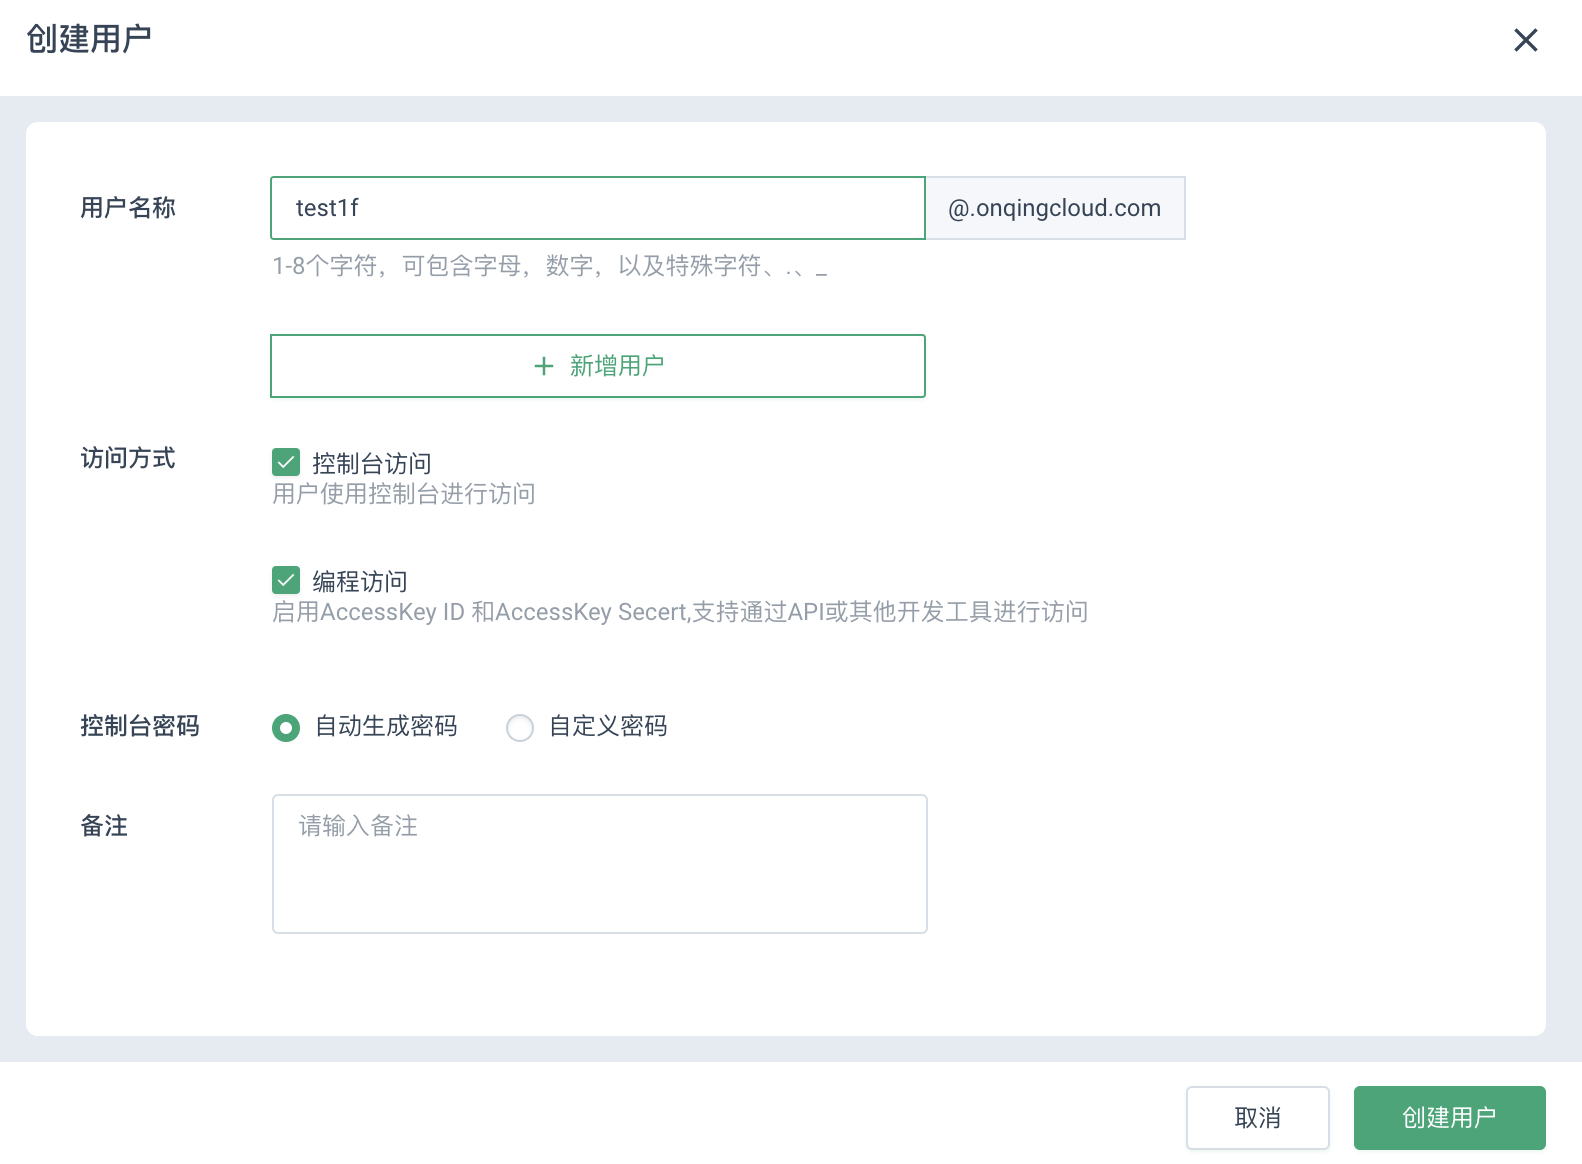
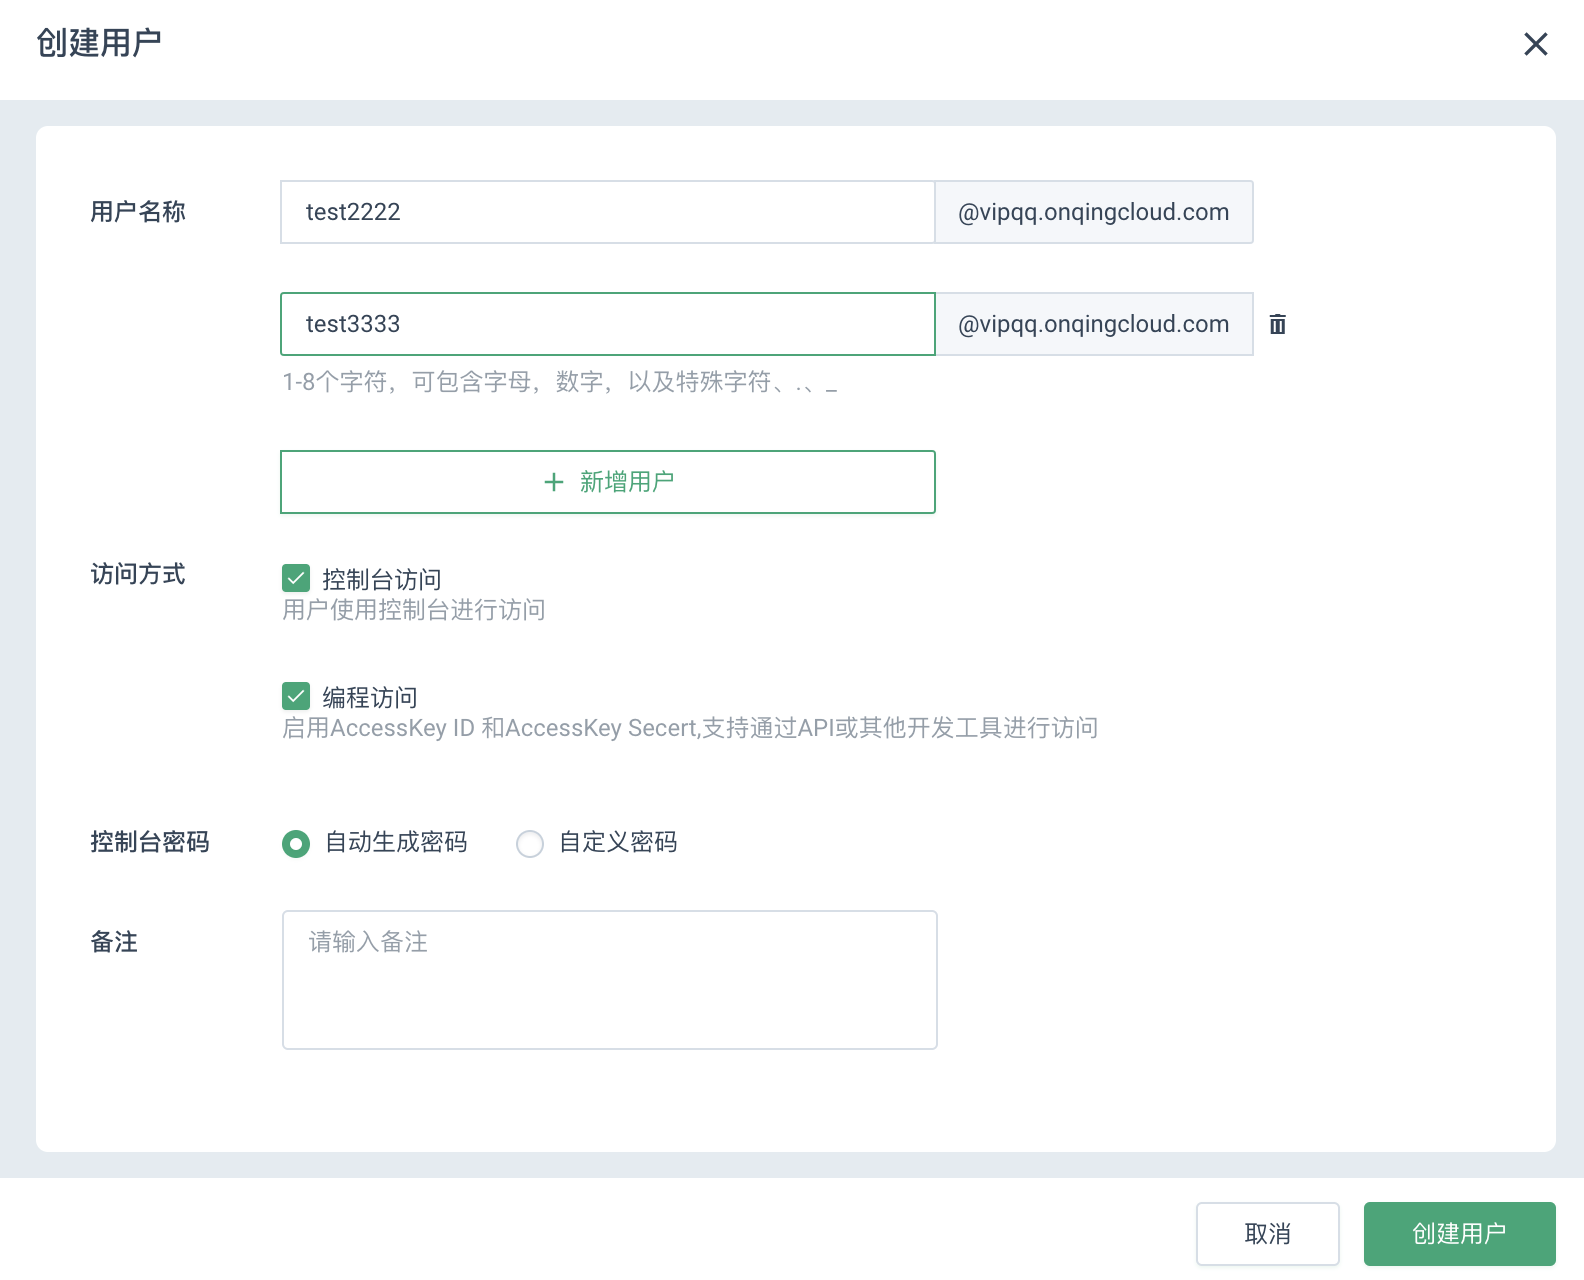
iam_1

diff --git a/content/authorization/iam/manual/user.md b/content/authorization/iam/manual/user.md
@@ -7,6 +7,24 @@ weight: 40
 
 您可以通过 IAM 用户设定访问方式。
 
+## 前提条件
+
+在登录 [QingCloud 管理控制台](https://console.qingcloud.com/login)的时候，您可以选择直接从QingCloud 控制台进入，也可以选择IAM 用户登录的方式进行登录。
+
+### 控制台登录：
+
+<img src="../../_images/console.png" style="zoom:22%;" />
+
+### IAM 用户登录：
+
+<img src="../../_images/console_iam.png" style="zoom:22%;" />
+
+>说明
+>
+>控制台用户可以通过控制台进入 访问鉴权管理 IAM 服务。
+>
+>IAM 用户则无法通过控制台进入访问鉴权管理 IAM 服务，登录后直接进入访问鉴权管理 IAM 服务。
+
 ## 创建用户
 
 1. 登录 [QingCloud 管理控制台](https://console.qingcloud.com/login)，选择**产品与服务** > **访问鉴权管理** > **用户**，进入域名列表页。
@@ -19,9 +37,25 @@ weight: 40
 
     <img src="../../_images/user2.png" alt="图片" style="zoom:30%;" />
 
+    >说明
+    >
+    >支持批量创建用户。
+
 4. 创建完成。
 
+    <img src="../../_images/user3_1.png" alt="图片" style="zoom:25%;" />
+
     <img src="../../_images/user3.png" alt="图片" style="zoom:25%;" />
+
+    >说明
+    >
+    >请及时保存信息并发送给相应用户，弹窗关闭后将无法再次获取密码信息，但是可以支持再次创建。
+    >
+    >创建成功后可以进行批量赋予权限。
+    >
+    >
+
+    ## 
 
 ## 编辑用户
 
@@ -149,7 +183,9 @@ weight: 40
 
    <img src="../../_images/user19.png" style="zoom:40%;" />
 > 说明：
->如果需要删除Access Key，则直接在该页面点击**删除**即可。
+> 如果需要删除Access Key，则直接在该页面点击**删除**即可。
 >
 > 如果需要禁用某一Access key，则在该页面直接点击**禁用**即可。
+>
+> 请及时保存或发送AccessKey信息至用户，弹窗关闭后将无法再次获取该信息，但您可以随时创建新的AccessKey。
 

diff --git a/content/compute/vm/faq/other_questions/vm_ping_ssh.md b/content/compute/vm/faq/other_questions/vm_ping_ssh.md
@@ -1,0 +1,18 @@
+---
+title: "主机绑定了公网 IP 之后，为什么我无法通过 IP SSH 登录，也不能 ping 通该 IP？ "
+date: 2020-01-30T00:38:25+09:00
+description: Test description
+draft: false
+enableToc: false
+weight: 40
+---
+
+为了加强位于基础网络 vxnet-0 中的主机的安全性， 青云在主机之前放置了一个防火墙（Security Group）。 初始状态下，每个防火墙都不包含任何规则，即，全部端口都是封闭的， 您需要建立规则以打开相应的端口。
+
+>注解
+>如果你的主机使用的是默认防火墙，那么 ping 和 ssh 的端口都是默认打开的，你无需再进行操作。
+
+例如您需要访问主机的22号端口，需要手动为主机的防火墙添加一条 接受 tcp 22 端口 的下行规则，然后再点击 更新规则 使其应用到主机。
+
+同理，如果你想开启 ping 功能， 需要在防火墙里头添加 接受 ICMP echo request 的下行规则。
+

diff --git a/content/compute/vm/faq/other_questions/vm_numbers.md b/content/compute/vm/faq/other_questions/vm_numbers.md
@@ -1,0 +1,11 @@
+---
+title: "如果我有多台主机需要访问外网，是不是每台主机都需要绑定一个公网 IP？ "
+date: 2020-01-30T00:38:25+09:00
+description: Test description
+draft: false
+enableToc: false
+weight: 50
+---
+
+当然不是这样。您可以将需要访问外网的主机加入到您的某个受管私有网络中， 再将该受管私有网络连接到您创建的路由器上， 然后再给路由器上绑定一个公网 IP。这样， 位于受管私有网络中的所有主机都可以连接互联网了，既节省钱，也节约 IP 地址。
+

diff --git a/content/compute/vm/faq/other_questions/vm_free_after_shutdown.md b/content/compute/vm/faq/other_questions/vm_free_after_shutdown.md
@@ -4,7 +4,7 @@ date: 2020-01-30T00:38:25+09:00
 description: Test description
 draft: false
 enableToc: false
-weight: 40
+weight: 20
 ---
 
 当云服务器关机后，只收取系统盘的费用，按照系统盘的占用空间收费，收费标准同硬盘，CPU / 内存则不再收费。

diff --git a/content/compute/vm/faq/other_questions/vm_outside.md b/content/compute/vm/faq/other_questions/vm_outside.md
@@ -1,0 +1,11 @@
+---
+title: "为什么我的主机不能访问外网？"
+date: 2020-01-30T00:38:25+09:00
+description: Test description
+draft: false
+enableToc: false
+weight: 30
+---
+
+只有绑定了公网 IP 的主机才可以访问外网。
+
